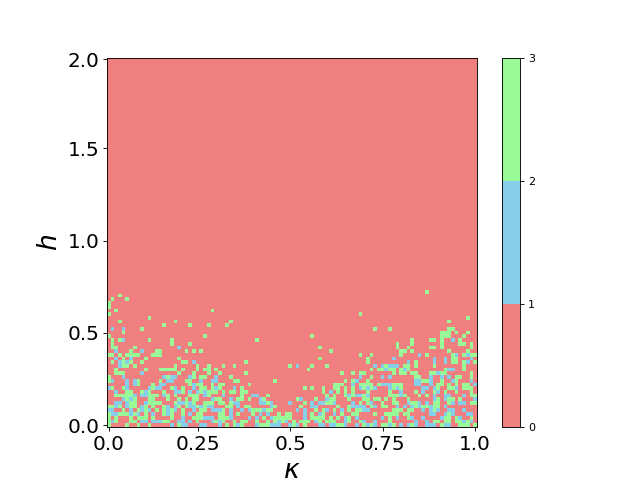
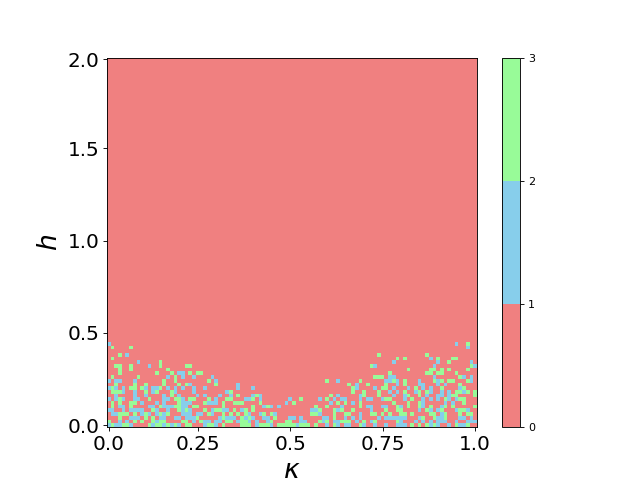
Parellelized the algorithm hopefully a bit more

Changed region(s): [[0.1562, 0.6562, 0.75, 0.9062], [0.1562, 0.625, 0.1875, 0.6562]]

diff --git a/src/Clustering/Clustering.py b/src/Clustering/Clustering.py
@@ -11,8 +11,9 @@ def compute_mean(clusters: List, hamiltonian: qml.ops.qubit.hamiltonian.Hamilton
     cluster_means = []
     for indexes in clusters:
         cluster_means.append(
-            jnp.array([0, jnp.mean(hamiltonian.model_params[indexes, 1]),  # 0 as N should be untouched Mean for h
-                       jnp.mean(hamiltonian.model_params[indexes, 2])]))  # Mean for K
+            jnp.array(
+                [0, jax.jit(jnp.mean)(hamiltonian.model_params[indexes, 1]),  # 0 as N should be untouched Mean for h
+                 jax.jit(jnp.mean)(hamiltonian.model_params[indexes, 2])]))  # Mean for K
     return cluster_means
 
 
@@ -67,7 +68,8 @@ class ClusteringVQE:
 
         if len(centroids) > 2:
             for state_index in range(len(states)):
-                index = jnp.argmax(self.jv_fidelity(centroids, jnp.array([states[state_index] for _ in range(len(centroids))])))
+                index = jnp.argmax(
+                    self.jv_fidelity(centroids, jnp.array([states[state_index] for _ in range(len(centroids))])))
                 clusters[index].append(state_index)
 
                 if self.show_progress:

diff --git a/src/Clustering/ClusterVisualization.py b/src/Clustering/ClusterVisualization.py
@@ -44,8 +44,9 @@ def visualize_clusters(clusters: List[List], hamiltonians: qml.ops.qubit.hamilto
     plt.show()
 
 
-ClusteringVQEObj = ClusteringVQE("../../data/vqes/ANNNI/N6n100", 3, 5)
+ClusteringVQEObj = ClusteringVQE("../../data/vqes/ANNNI/N6n100", 3, 25)
 ClusteringVQEObj.cluster()
 ClusteringVQEObj.save(
-    "../../data/clustering/N" + str(ClusteringVQEObj.vqe.Hs.N) + "n" + str(int(jnp.sqrt(ClusteringVQEObj.vqe.Hs.n_states))))
+    "../../data/clustering/N" + str(ClusteringVQEObj.vqe.Hs.N) + "n" + str(
+        int(jnp.sqrt(ClusteringVQEObj.vqe.Hs.n_states))))
 visualize_clusters(ClusteringVQEObj.clusters, ClusteringVQEObj.vqe.Hs)
